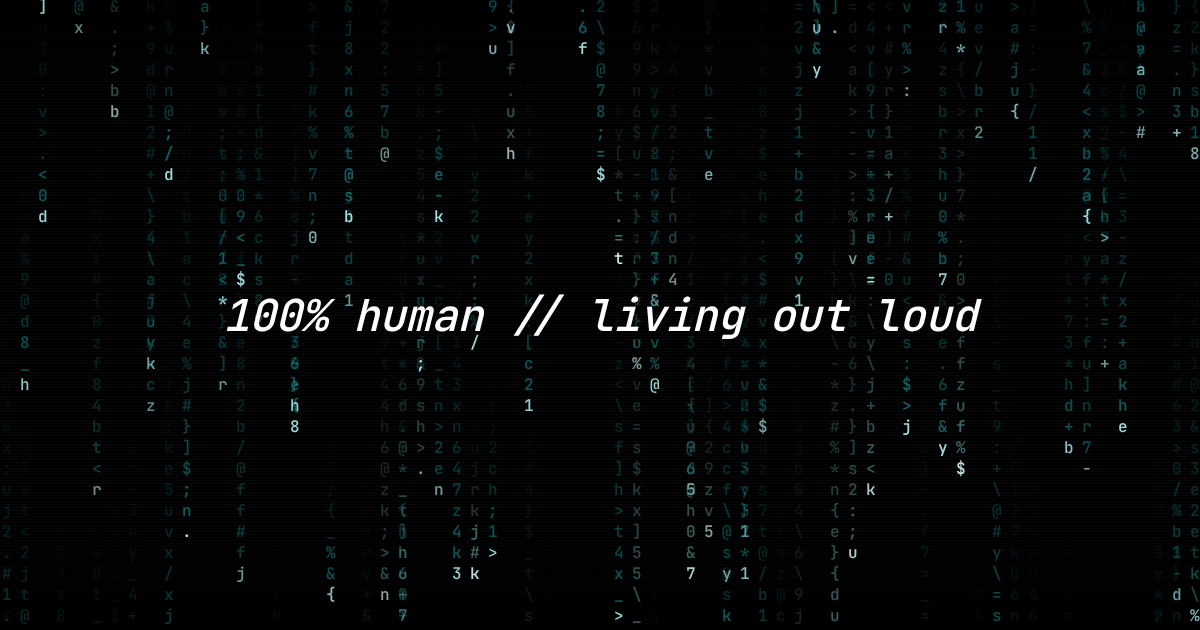
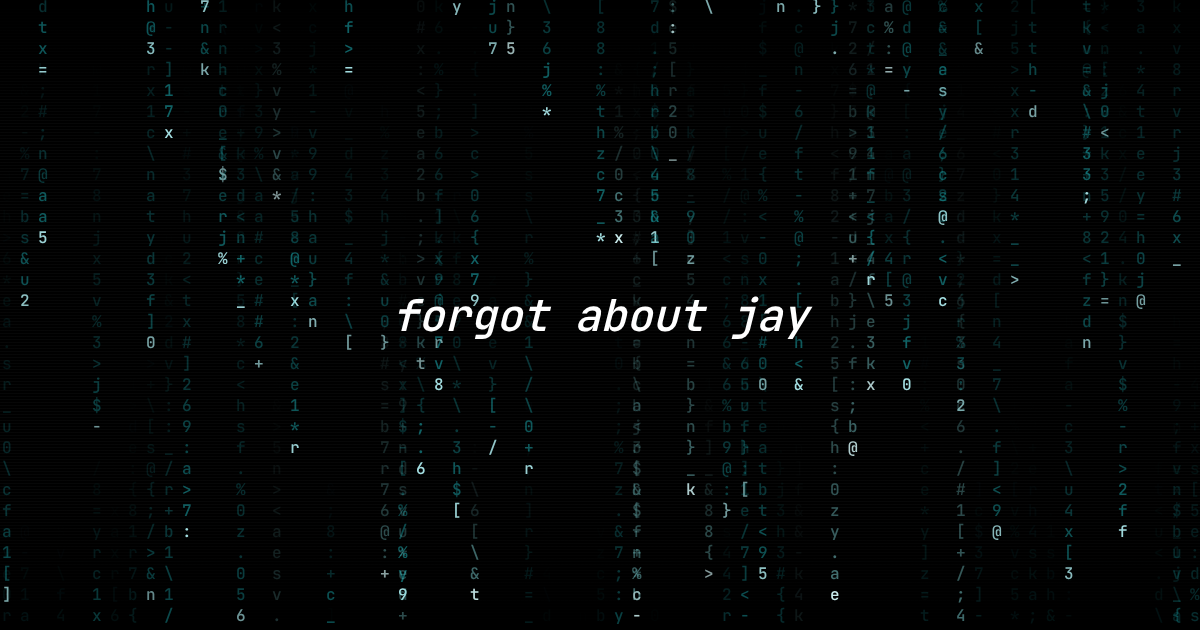
Set the header line to forgot about jay. (#300)
The same words are on every public page, in the share-card alt text, and on the shared card.

diff --git a/site/me/index.html b/site/me/index.html
@@ -24,18 +24,18 @@
 <meta property="og:url" content="https://jayroddi.lol/me/">
 <meta property="og:title" content="me">
 <meta property="og:description" content="we fall to the level of our habits">
-<meta property="og:image" content="https://jayroddi.lol/og-card.png?v=3.3">
+<meta property="og:image" content="https://jayroddi.lol/og-card.png?v=3.4">
 <meta property="og:image:width" content="1200">
 <meta property="og:image:height" content="630">
 <meta property="og:image:type" content="image/png">
-<meta property="og:image:alt" content="100% human // living out loud">
+<meta property="og:image:alt" content="forgot about jay">
 <meta name="twitter:card" content="summary_large_image">
 <meta name="twitter:site" content="@jayroddi">
 <meta name="twitter:url" content="https://jayroddi.lol/me/">
 <meta name="twitter:title" content="me">
 <meta name="twitter:description" content="we fall to the level of our habits">
-<meta name="twitter:image" content="https://jayroddi.lol/og-card.png?v=3.3">
-<meta name="twitter:image:alt" content="100% human // living out loud">
+<meta name="twitter:image" content="https://jayroddi.lol/og-card.png?v=3.4">
+<meta name="twitter:image:alt" content="forgot about jay">
 <script type="application/ld+json">{"@context":"https://schema.org","@type":"WebPage","name":"me","url":"https://jayroddi.lol/me/","isPartOf":{"@type":"WebSite","name":"jayroddi.lol","url":"https://jayroddi.lol/"}}</script>
 <link rel="stylesheet" href="/assets/rain.css?v=2.55"><script src="/assets/rain.js?v=2.74"></script>
 <link rel="stylesheet" href="/assets/foot.css?v=2.00"><script src="/assets/foot.js?v=2.79" defer></script>
@@ -50,7 +50,7 @@
 <main class="stage" id="stage">
   <h1 class="visually-hidden">jay tha ninja habits</h1>
   <div class="copy">
-    <header class="mast"><p class="pages">100% human // living out loud</p><nav class="nav" aria-label="pages"><span class="nav-l"><a href="/">snaps</a><span class="sep" aria-hidden="true"> // </span><a href="/music/">music</a><span class="sep" aria-hidden="true"> // </span><a href="/books/">books</a></span><span class="nav-r"><a href="/quotes/">quotes</a><span class="sep" aria-hidden="true"> // </span><a href="/quickies/">quickies</a><span class="sep" aria-hidden="true"> // </span><a href="/me/" aria-current="page">me</a></span></nav></header>
+    <header class="mast"><p class="pages">forgot about jay</p><nav class="nav" aria-label="pages"><span class="nav-l"><a href="/">snaps</a><span class="sep" aria-hidden="true"> // </span><a href="/music/">music</a><span class="sep" aria-hidden="true"> // </span><a href="/books/">books</a></span><span class="nav-r"><a href="/quotes/">quotes</a><span class="sep" aria-hidden="true"> // </span><a href="/quickies/">quickies</a><span class="sep" aria-hidden="true"> // </span><a href="/me/" aria-current="page">me</a></span></nav></header>
     <p class="note-line">we fall to the level of our habits</p>
     <div class="trackers">
       <section class="tracker" data-id="cursor" data-unit="contribution" data-src="/habits/cursor.json" aria-label="code">

diff --git a/site/index.html b/site/index.html
@@ -30,18 +30,18 @@
 <meta property="og:url" content="https://jayroddi.lol/">
 <meta property="og:title" content="snaps">
 <meta property="og:description" content="photos">
-<meta property="og:image" content="https://jayroddi.lol/og-card.png?v=3.3">
+<meta property="og:image" content="https://jayroddi.lol/og-card.png?v=3.4">
 <meta property="og:image:width" content="1200">
 <meta property="og:image:height" content="630">
 <meta property="og:image:type" content="image/png">
-<meta property="og:image:alt" content="100% human // living out loud">
+<meta property="og:image:alt" content="forgot about jay">
 <meta name="twitter:card" content="summary_large_image">
 <meta name="twitter:site" content="@jayroddi">
 <meta name="twitter:url" content="https://jayroddi.lol/">
 <meta name="twitter:title" content="snaps">
 <meta name="twitter:description" content="photos">
-<meta name="twitter:image" content="https://jayroddi.lol/og-card.png?v=3.3">
-<meta name="twitter:image:alt" content="100% human // living out loud">
+<meta name="twitter:image" content="https://jayroddi.lol/og-card.png?v=3.4">
+<meta name="twitter:image:alt" content="forgot about jay">
 <script type="application/ld+json">{"@context":"https://schema.org","@type":"WebSite","name":"jayroddi.lol","url":"https://jayroddi.lol/"}</script>
 </head>
 <body class="board snaps">
@@ -54,7 +54,7 @@
 <main class="stage">
   <h1 class="visually-hidden">snaps</h1>
   <div class="copy">
-    <header class="mast"><p class="pages">100% human // living out loud</p><nav class="nav" aria-label="pages"><span class="nav-l"><a href="/" aria-current="page">snaps</a><span class="sep" aria-hidden="true"> // </span><a href="/music/">music</a><span class="sep" aria-hidden="true"> // </span><a href="/books/">books</a></span><span class="nav-r"><a href="/quotes/">quotes</a><span class="sep" aria-hidden="true"> // </span><a href="/quickies/">quickies</a><span class="sep" aria-hidden="true"> // </span><a href="/me/">me</a></span></nav></header>
+    <header class="mast"><p class="pages">forgot about jay</p><nav class="nav" aria-label="pages"><span class="nav-l"><a href="/" aria-current="page">snaps</a><span class="sep" aria-hidden="true"> // </span><a href="/music/">music</a><span class="sep" aria-hidden="true"> // </span><a href="/books/">books</a></span><span class="nav-r"><a href="/quotes/">quotes</a><span class="sep" aria-hidden="true"> // </span><a href="/quickies/">quickies</a><span class="sep" aria-hidden="true"> // </span><a href="/me/">me</a></span></nav></header>
   </div>
   <!-- TEMPORARY (jay 2026.10.20): backlog note above the newest month. remove this one line, and .backlog in snaps.css, when jay says the backlog is done. -->
   <p class="backlog">you can see everythi</p>

diff --git a/site/quickies/index.html b/site/quickies/index.html
@@ -26,17 +26,17 @@
 <meta property="og:url" content="https://jayroddi.lol/quickies/">
 <meta property="og:title" content="quickies">
 <meta property="og:description" content="mad respect if you clicked this first">
-<meta property="og:image" content="https://jayroddi.lol/og-card.png?v=3.3">
+<meta property="og:image" content="https://jayroddi.lol/og-card.png?v=3.4">
 <meta property="og:image:width" content="1200">
 <meta property="og:image:height" content="630">
-<meta property="og:image:alt" content="100% human // living out loud">
+<meta property="og:image:alt" content="forgot about jay">
 <meta name="twitter:card" content="summary_large_image">
 <meta name="twitter:site" content="@jayroddi">
 <meta name="twitter:url" content="https://jayroddi.lol/quickies/">
 <meta name="twitter:title" content="quickies">
 <meta name="twitter:description" content="mad respect if you clicked this first">
-<meta name="twitter:image" content="https://jayroddi.lol/og-card.png?v=3.3">
-<meta name="twitter:image:alt" content="100% human // living out loud">
+<meta name="twitter:image" content="https://jayroddi.lol/og-card.png?v=3.4">
+<meta name="twitter:image:alt" content="forgot about jay">
 </head>
 <body class="board quickies">
 <div class="glows" aria-hidden="true">
@@ -48,7 +48,7 @@
 <main class="stage">
   <h1 class="visually-hidden">quickies</h1>
   <div class="copy">
-    <header class="mast"><p class="pages">100% human // living out loud</p><nav class="nav" aria-label="pages"><span class="nav-l"><a href="/">snaps</a><span class="sep" aria-hidden="true"> // </span><a href="/music/">music</a><span class="sep" aria-hidden="true"> // </span><a href="/books/">books</a></span><span class="nav-r"><a href="/quotes/">quotes</a><span class="sep" aria-hidden="true"> // </span><a href="/quickies/" aria-current="page">quickies</a><span class="sep" aria-hidden="true"> // </span><a href="/me/">me</a></span></nav></header>
+    <header class="mast"><p class="pages">forgot about jay</p><nav class="nav" aria-label="pages"><span class="nav-l"><a href="/">snaps</a><span class="sep" aria-hidden="true"> // </span><a href="/music/">music</a><span class="sep" aria-hidden="true"> // </span><a href="/books/">books</a></span><span class="nav-r"><a href="/quotes/">quotes</a><span class="sep" aria-hidden="true"> // </span><a href="/quickies/" aria-current="page">quickies</a><span class="sep" aria-hidden="true"> // </span><a href="/me/">me</a></span></nav></header>
     <p class="note-line">mad respect if you clicked this first</p>
     <ol class="quotes" aria-label="quickies"></ol>
   </div>

diff --git a/site/books/index.html b/site/books/index.html
@@ -27,17 +27,17 @@
 <meta property="og:url" content="https://jayroddi.lol/books/">
 <meta property="og:title" content="books">
 <meta property="og:description" content="we read to know we are not alone">
-<meta property="og:image" content="https://jayroddi.lol/og-card.png?v=3.3">
+<meta property="og:image" content="https://jayroddi.lol/og-card.png?v=3.4">
 <meta property="og:image:width" content="1200">
 <meta property="og:image:height" content="630">
-<meta property="og:image:alt" content="100% human // living out loud">
+<meta property="og:image:alt" content="forgot about jay">
 <meta name="twitter:card" content="summary_large_image">
 <meta name="twitter:site" content="@jayroddi">
 <meta name="twitter:url" content="https://jayroddi.lol/books/">
 <meta name="twitter:title" content="books">
 <meta name="twitter:description" content="we read to know we are not alone">
-<meta name="twitter:image" content="https://jayroddi.lol/og-card.png?v=3.3">
-<meta name="twitter:image:alt" content="100% human // living out loud">
+<meta name="twitter:image" content="https://jayroddi.lol/og-card.png?v=3.4">
+<meta name="twitter:image:alt" content="forgot about jay">
 </head>
 <body class="board">
 <div class="glows" aria-hidden="true">
@@ -49,7 +49,7 @@
 <main class="stage">
   <h1 class="visually-hidden">books</h1>
   <div class="copy">
-    <header class="mast"><p class="pages">100% human // living out loud</p><nav class="nav" aria-label="pages"><span class="nav-l"><a href="/">snaps</a><span class="sep" aria-hidden="true"> // </span><a href="/music/">music</a><span class="sep" aria-hidden="true"> // </span><a href="/books/" aria-current="page">books</a></span><span class="nav-r"><a href="/quotes/">quotes</a><span class="sep" aria-hidden="true"> // </span><a href="/quickies/">quickies</a><span class="sep" aria-hidden="true"> // </span><a href="/me/">me</a></span></nav></header>
+    <header class="mast"><p class="pages">forgot about jay</p><nav class="nav" aria-label="pages"><span class="nav-l"><a href="/">snaps</a><span class="sep" aria-hidden="true"> // </span><a href="/music/">music</a><span class="sep" aria-hidden="true"> // </span><a href="/books/" aria-current="page">books</a></span><span class="nav-r"><a href="/quotes/">quotes</a><span class="sep" aria-hidden="true"> // </span><a href="/quickies/">quickies</a><span class="sep" aria-hidden="true"> // </span><a href="/me/">me</a></span></nav></header>
     <p class="note-line">we read to know we are not alone</p>
     <div class="years" aria-label="books"></div>
   </div>

diff --git a/site/quotes/index.html b/site/quotes/index.html
@@ -26,17 +26,17 @@
 <meta property="og:url" content="https://jayroddi.lol/quotes">
 <meta property="og:title" content="quotes">
 <meta property="og:description" content="daily quotes from jayroddi.lol">
-<meta property="og:image" content="https://jayroddi.lol/og-card.png?v=3.3">
+<meta property="og:image" content="https://jayroddi.lol/og-card.png?v=3.4">
 <meta property="og:image:width" content="1200">
 <meta property="og:image:height" content="630">
-<meta property="og:image:alt" content="100% human // living out loud">
+<meta property="og:image:alt" content="forgot about jay">
 <meta name="twitter:card" content="summary_large_image">
 <meta name="twitter:site" content="@jayroddi">
 <meta name="twitter:url" content="https://jayroddi.lol/quotes">
 <meta name="twitter:title" content="quotes">
 <meta name="twitter:description" content="daily quotes from jayroddi.lol">
-<meta name="twitter:image" content="https://jayroddi.lol/og-card.png?v=3.3">
-<meta name="twitter:image:alt" content="100% human // living out loud">
+<meta name="twitter:image" content="https://jayroddi.lol/og-card.png?v=3.4">
+<meta name="twitter:image:alt" content="forgot about jay">
 </head>
 <body class="board">
 <div class="glows" aria-hidden="true">
@@ -48,7 +48,7 @@
 <main class="stage">
   <h1 class="visually-hidden">quotes</h1>
   <div class="copy">
-    <header class="mast"><p class="pages">100% human // living out loud</p><nav class="nav" aria-label="pages"><span class="nav-l"><a href="/">snaps</a><span class="sep" aria-hidden="true"> // </span><a href="/music/">music</a><span class="sep" aria-hidden="true"> // </span><a href="/books/">books</a></span><span class="nav-r"><a href="/quotes/" aria-current="page">quotes</a><span class="sep" aria-hidden="true"> // </span><a href="/quickies/">quickies</a><span class="sep" aria-hidden="true"> // </span><a href="/me/">me</a></span></nav></header>
+    <header class="mast"><p class="pages">forgot about jay</p><nav class="nav" aria-label="pages"><span class="nav-l"><a href="/">snaps</a><span class="sep" aria-hidden="true"> // </span><a href="/music/">music</a><span class="sep" aria-hidden="true"> // </span><a href="/books/">books</a></span><span class="nav-r"><a href="/quotes/" aria-current="page">quotes</a><span class="sep" aria-hidden="true"> // </span><a href="/quickies/">quickies</a><span class="sep" aria-hidden="true"> // </span><a href="/me/">me</a></span></nav></header>
     <p class="note-line">15 years and counting</p>
     <ol class="quotes" aria-label="quotes"></ol>
   </div>

diff --git a/site/music/index.html b/site/music/index.html
@@ -27,17 +27,17 @@
 <meta property="og:url" content="https://jayroddi.lol/music/">
 <meta property="og:title" content="music">
 <meta property="og:description" content="every day i'm shuffling">
-<meta property="og:image" content="https://jayroddi.lol/og-card.png?v=3.3">
+<meta property="og:image" content="https://jayroddi.lol/og-card.png?v=3.4">
 <meta property="og:image:width" content="1200">
 <meta property="og:image:height" content="630">
-<meta property="og:image:alt" content="100% human // living out loud">
+<meta property="og:image:alt" content="forgot about jay">
 <meta name="twitter:card" content="summary_large_image">
 <meta name="twitter:site" content="@jayroddi">
 <meta name="twitter:url" content="https://jayroddi.lol/music/">
 <meta name="twitter:title" content="music">
 <meta name="twitter:description" content="every day i'm shuffling">
-<meta name="twitter:image" content="https://jayroddi.lol/og-card.png?v=3.3">
-<meta name="twitter:image:alt" content="100% human // living out loud">
+<meta name="twitter:image" content="https://jayroddi.lol/og-card.png?v=3.4">
+<meta name="twitter:image:alt" content="forgot about jay">
 </head>
 <body class="board">
 <div class="glows" aria-hidden="true">
@@ -49,7 +49,7 @@
 <main class="stage">
   <h1 class="visually-hidden">music</h1>
   <div class="copy">
-    <header class="mast"><p class="pages">100% human // living out loud</p><nav class="nav" aria-label="pages"><span class="nav-l"><a href="/">snaps</a><span class="sep" aria-hidden="true"> // </span><a href="/music/" aria-current="page">music</a><span class="sep" aria-hidden="true"> // </span><a href="/books/">books</a></span><span class="nav-r"><a href="/quotes/">quotes</a><span class="sep" aria-hidden="true"> // </span><a href="/quickies/">quickies</a><span class="sep" aria-hidden="true"> // </span><a href="/me/">me</a></span></nav></header>
+    <header class="mast"><p class="pages">forgot about jay</p><nav class="nav" aria-label="pages"><span class="nav-l"><a href="/">snaps</a><span class="sep" aria-hidden="true"> // </span><a href="/music/" aria-current="page">music</a><span class="sep" aria-hidden="true"> // </span><a href="/books/">books</a></span><span class="nav-r"><a href="/quotes/">quotes</a><span class="sep" aria-hidden="true"> // </span><a href="/quickies/">quickies</a><span class="sep" aria-hidden="true"> // </span><a href="/me/">me</a></span></nav></header>
     <p class="note-line">every day i'm shuffling</p>
     <ol class="covers" aria-label="playlist"></ol>
   </div>

diff --git a/scripts/cards/card-simple.html b/scripts/cards/card-simple.html
@@ -2,7 +2,7 @@
 <html lang="en">
 <head>
 <meta charset="utf-8">
-<!-- v3.3 (jay 2026.10.23): the one share card for every page. the site's own teal rain (rain.css + rain.js) on black, the header line centered, white, 44px. the shorter line fits at the original size. -->
+<!-- v3.4 (jay 2026.10.24): the one share card for every page. the site's own teal rain (rain.css + rain.js) on black, the header line centered, white, 44px. -->
 <meta name="viewport" content="width=1200, initial-scale=1">
 <meta name="color-scheme" content="dark">
 <link rel="stylesheet" href="/habits/habits.css">
@@ -16,7 +16,7 @@ html,body{margin:0;width:1200px;height:630px;overflow:hidden;background:#000}
 <body class="board">
 <canvas id="rain" aria-hidden="true"></canvas>
 <div class="scan" aria-hidden="true"></div>
-<div class="card"><p>100% human // living out loud</p></div>
+<div class="card"><p>forgot about jay</p></div>
 <script src="/assets/rain.js"></script>
 <script>
 // the same rain the snaps page builds (snaps.js), full height, glyphs behind the line fade like they do behind page content

diff --git a/README.md b/README.md
@@ -4,7 +4,7 @@ Personal site. The repository is still named `jaytha.ninja`. The live site is [h
 
 `site/CNAME` is `jayroddi.lol`. Pushes to `main` deploy `site/` to GitHub Pages (`.github/workflows/pages.yml`).
 
-The header on every public page is `100% human // living out loud`. Under it the nav is `snaps // music // books // quotes // quickies // me`.
+The header on every public page is `forgot about jay`. Under it the nav is `snaps // music // books // quotes // quickies // me`.
 
 | page | what it is |
 |---|---|
